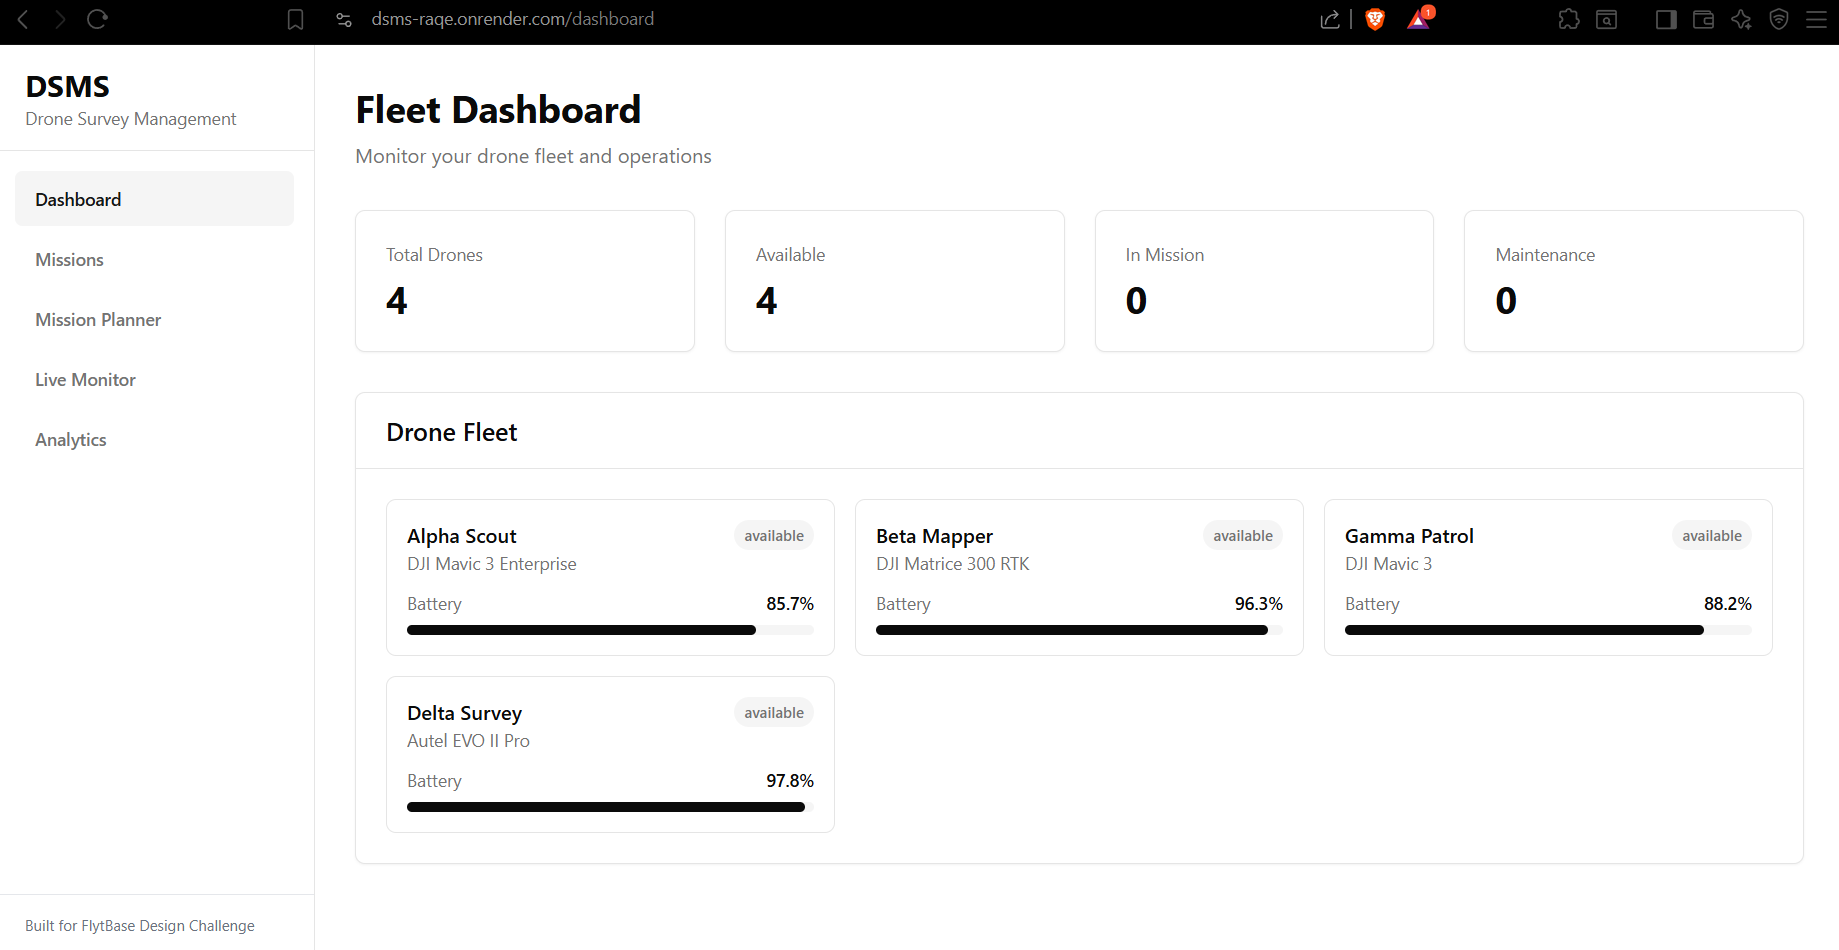
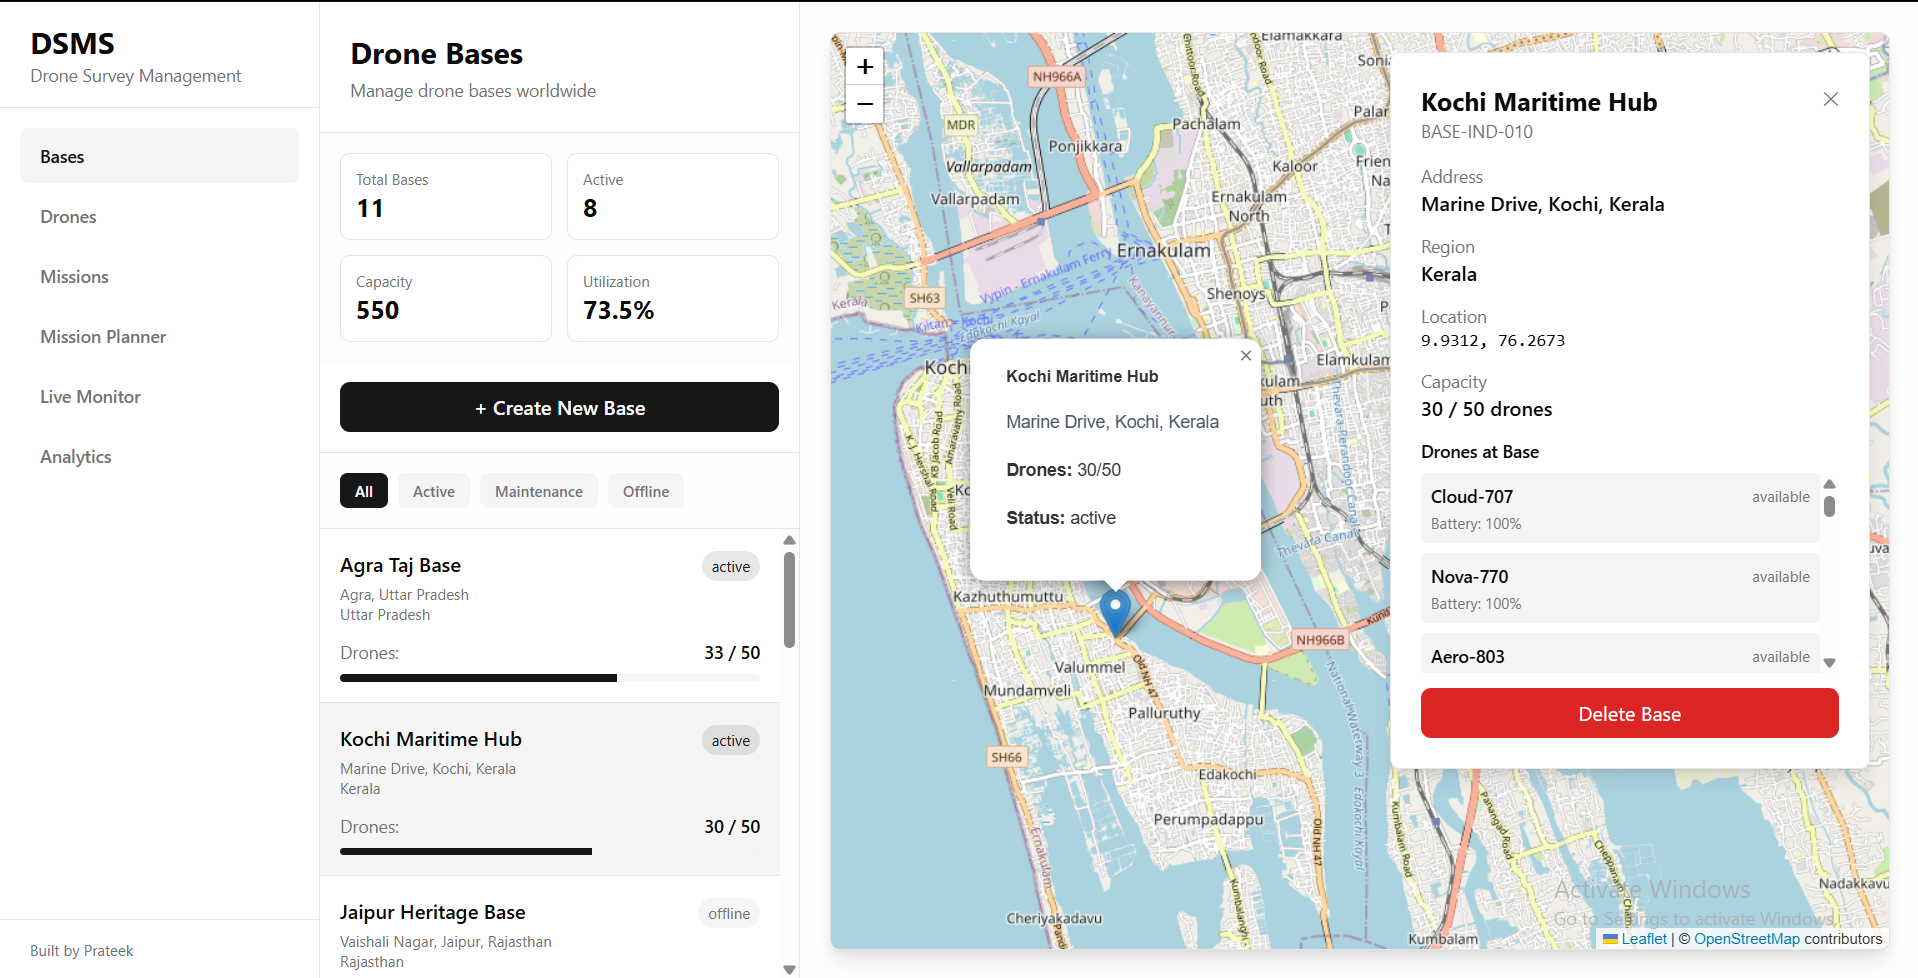
project list updated

diff --git a/index.html b/index.html
@@ -256,15 +256,15 @@
                     <!-- Project 2: LLMChat -->
                     <div class="project-card">
                         <div class="project-info">
-                            <span class="project-label">DJango / Next.js</span>
-                            <h3>LLMChat</h3>
+                            <span class="project-label">Nodejs / Next.js</span>
+                            <h3>Stock Portfolio</h3>
                             <div class="project-links">
-                                <a href="https://github.com/pratee-k-umar/LLMChat" target="_blank" class="project-link github-link"><i class="fab fa-github"></i></a>
-                                <!-- <a href="" target="_blank" class="project-link" disabled><i class="fas fa-arrow-right" disabled></i></a> -->
+                                <a href="https://github.com/pratee-k-umar/PortfolioT" target="_blank" class="project-link github-link"><i class="fab fa-github"></i></a>
+                                <a href="https://capx-rs0x.onrender.com" target="_blank" class="project-link" disabled><i class="fas fa-arrow-right"></i></a>
                             </div>
                         </div>
                         <div class="project-image">
-                            <img src="project\image_icon.png" alt="StockPortfolio">
+                            <img src="project/stock.png" alt="StockPortfolio">
                         </div>
                     </div>
 
